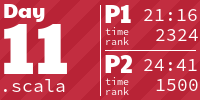
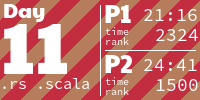
Day 11 2023

diff --git a/src/y2023/day11.rs b/src/y2023/day11.rs
@@ -1,0 +1,99 @@
+use std::{collections::HashSet, io::BufRead};
+
+use glam::IVec2;
+use itertools::Itertools;
+
+use crate::{
+    aoc::day::{DayParser, DaySolution},
+    common::{
+        grid::{distance::ManhattenDistance, minmax::minmax_ivec2, parse_set},
+        parsing::lines_iter,
+    },
+};
+
+pub const TITLE: &str = "Cosmic Expansion";
+
+pub struct Solution {
+    galaxies: HashSet<IVec2>,
+    empty_columns: Vec<i32>,
+    empty_rows: Vec<i32>,
+}
+
+impl DayParser for Solution {
+    fn with_input(input: &mut dyn BufRead) -> Self {
+        let galaxies = parse_set(lines_iter(input));
+        let (_, max) = minmax_ivec2(galaxies.iter());
+        let empty_columns = (0..=max.x)
+            .filter(|&x| !galaxies.iter().any(|g| g.x == x))
+            .collect_vec();
+        let empty_rows = (0..=max.y)
+            .filter(|&y| !galaxies.iter().any(|g| g.y == y))
+            .collect_vec();
+
+        Self {
+            galaxies,
+            empty_columns,
+            empty_rows,
+        }
+    }
+}
+
+impl DaySolution for Solution {
+    fn part1(&self) -> String {
+        self.expanded_distances(1).to_string()
+    }
+
+    fn part2(&self) -> String {
+        self.expanded_distances(999999).to_string()
+    }
+}
+
+impl Solution {
+    fn expanded_distances(&self, expand: u64) -> u64 {
+        self.galaxies
+            .iter()
+            .tuple_combinations()
+            .map(|(a, b)| {
+                a.manhattan_distance(b) as u64
+                    + count_empty_in_range(&self.empty_columns, &a.x, &b.x) * expand
+                    + count_empty_in_range(&self.empty_rows, &a.y, &b.y) * expand
+            })
+            .sum::<u64>()
+    }
+}
+
+fn count_empty_in_range(empty: &[i32], a: &i32, b: &i32) -> u64 {
+    let range = if a < b { a..=b } else { b..=a };
+    empty.iter().filter(|e| range.contains(e)).count() as u64
+}
+
+#[cfg(test)]
+mod tests {
+    use super::*;
+    use crate::input;
+
+    #[test]
+    fn test_part1_example() {
+        let solution = Solution::with_input(input!(example));
+        assert_eq!(solution.part1(), "374");
+    }
+
+    #[test]
+    fn test_part1_input() {
+        let solution = Solution::with_input(input!(input));
+        assert_eq!(solution.part1(), "9556896");
+    }
+
+    #[test]
+    fn test_part2_example() {
+        let solution = Solution::with_input(input!(example));
+        assert_eq!(solution.expanded_distances(9), 1030);
+        assert_eq!(solution.expanded_distances(99), 8410);
+    }
+
+    #[test]
+    fn test_part2_input() {
+        let solution = Solution::with_input(input!(input));
+        assert_eq!(solution.part2(), "685038186836");
+    }
+}

diff --git a/src/y2023/day17.rs b/src/y2023/day17.rs
@@ -14,7 +14,8 @@ use crate::{
         grid::{
             directions::{Direction, Turn},
             distance::ManhattenDistance,
-            minmax, parse_map, print_area,
+            minmax::minmax_ivec2,
+            parse_map, print_area,
             walk::Walk,
         },
         parsing::lines_iter,
@@ -44,7 +45,7 @@ pub struct Solution {
 impl DayParser for Solution {
     fn with_input(input: &mut dyn BufRead) -> Self {
         let map = parse_map(lines_iter(input), |c| c.to_digit(10).unwrap() as u8);
-        let (_, target) = minmax::minmax_ivec2(map.keys());
+        let (_, target) = minmax_ivec2(map.keys());
         Self { map, target }
     }
 }

diff --git a/src/y2022/day23.rs b/src/y2022/day23.rs
@@ -10,11 +10,11 @@ use crate::{
     aoc::day::{DayParser, DaySolution},
     common::{
         grid::{
-            self,
             directions::{
                 Directions, BOTTOM_LEFT, BOTTOM_RIGHT, DOWN, LEFT, RIGHT, TOP_LEFT, TOP_RIGHT, UP,
             },
             minmax::minmax_ivec2,
+            parse_set,
         },
         parsing::lines_iter,
     },
@@ -35,7 +35,7 @@ pub struct Solution {
 
 impl DayParser for Solution {
     fn with_input(input: &mut dyn BufRead) -> Self {
-        let elves = grid::parse_set(lines_iter(input));
+        let elves = parse_set(lines_iter(input));
         Self { elves }
     }
 }

diff --git a/benches/solutions.rs b/benches/solutions.rs
@@ -63,5 +63,5 @@ benchmarks!(
     (Benchmark2016 / y2016: day1),
     (Benchmark2021 / y2021: day1),
     (Benchmark2022 / y2022: day1, day3, day4, day6, day10, day13, day16, day17, day23, day24, day25),
-    (Benchmark2023 / y2023: day1, day2, day3, day4, day6, day7, day8, day9, day12, day13, day15, day17),
+    (Benchmark2023 / y2023: day1, day2, day3, day4, day6, day7, day8, day9, day11, day12, day13, day15, day17),
 );

diff --git a/src/lib.rs b/src/lib.rs
@@ -62,5 +62,5 @@ aoc_solutions!(
     y2016: day1;
     y2021: day1;
     y2022: day1, day3, day4, day6, day10, day13, day16, day17, day23, day24, day25;
-    y2023: day1, day2, day3, day4, day6, day7, day8, day9, day12, day13, day15, day17;
+    y2023: day1, day2, day3, day4, day6, day7, day8, day9, day11, day12, day13, day15, day17;
 );

diff --git a/README.md b/README.md
@@ -35,7 +35,7 @@ Rust solutions for [Advent of Code](http://adventofcode.com/). My scala solution
 <a href="https://github.com/SuperTux88/adventofcode/blob/main/src/main/scala/adventofcode/y2023/Day10.scala">
   <img src="AoCTiles/2023/10.png" width="161px">
 </a>
-<a href="https://github.com/SuperTux88/adventofcode/blob/main/src/main/scala/adventofcode/y2023/Day11.scala">
+<a href="src/y2023/day11.rs">
   <img src="AoCTiles/2023/11.png" width="161px">
 </a>
 <a href="src/y2023/day12.rs">
